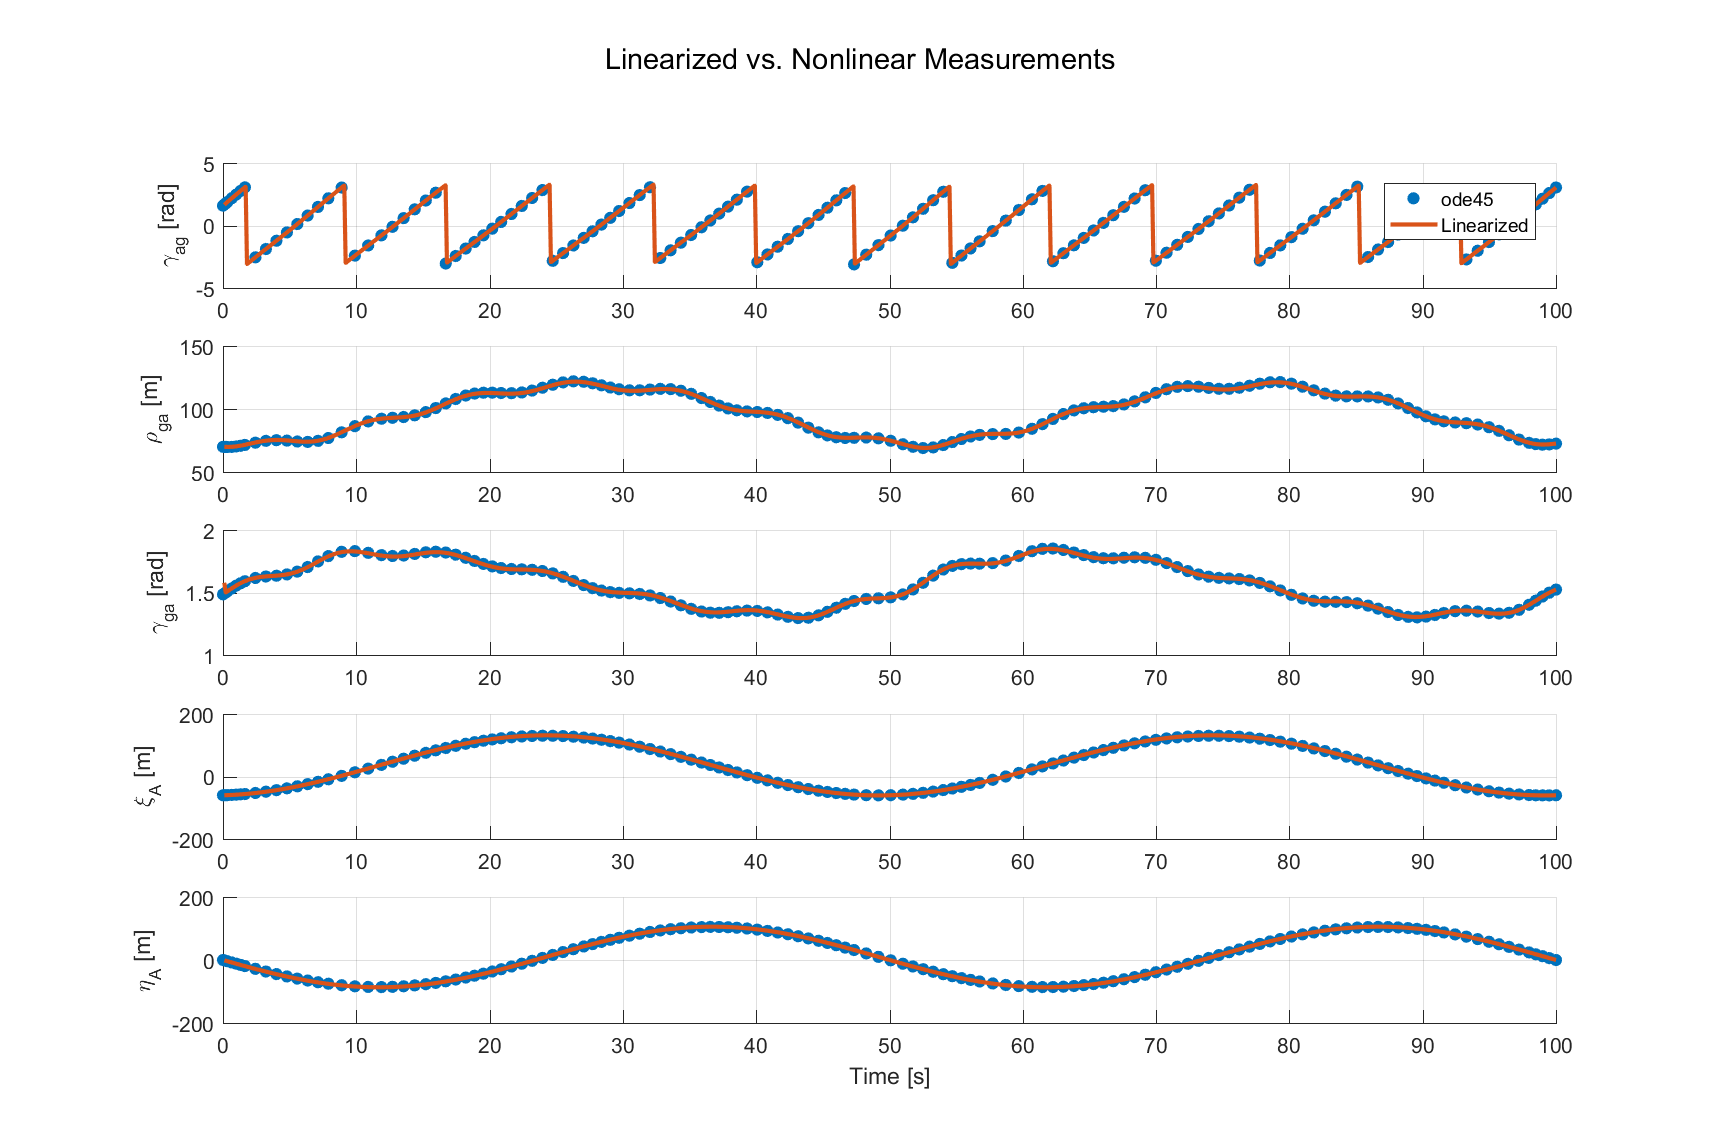
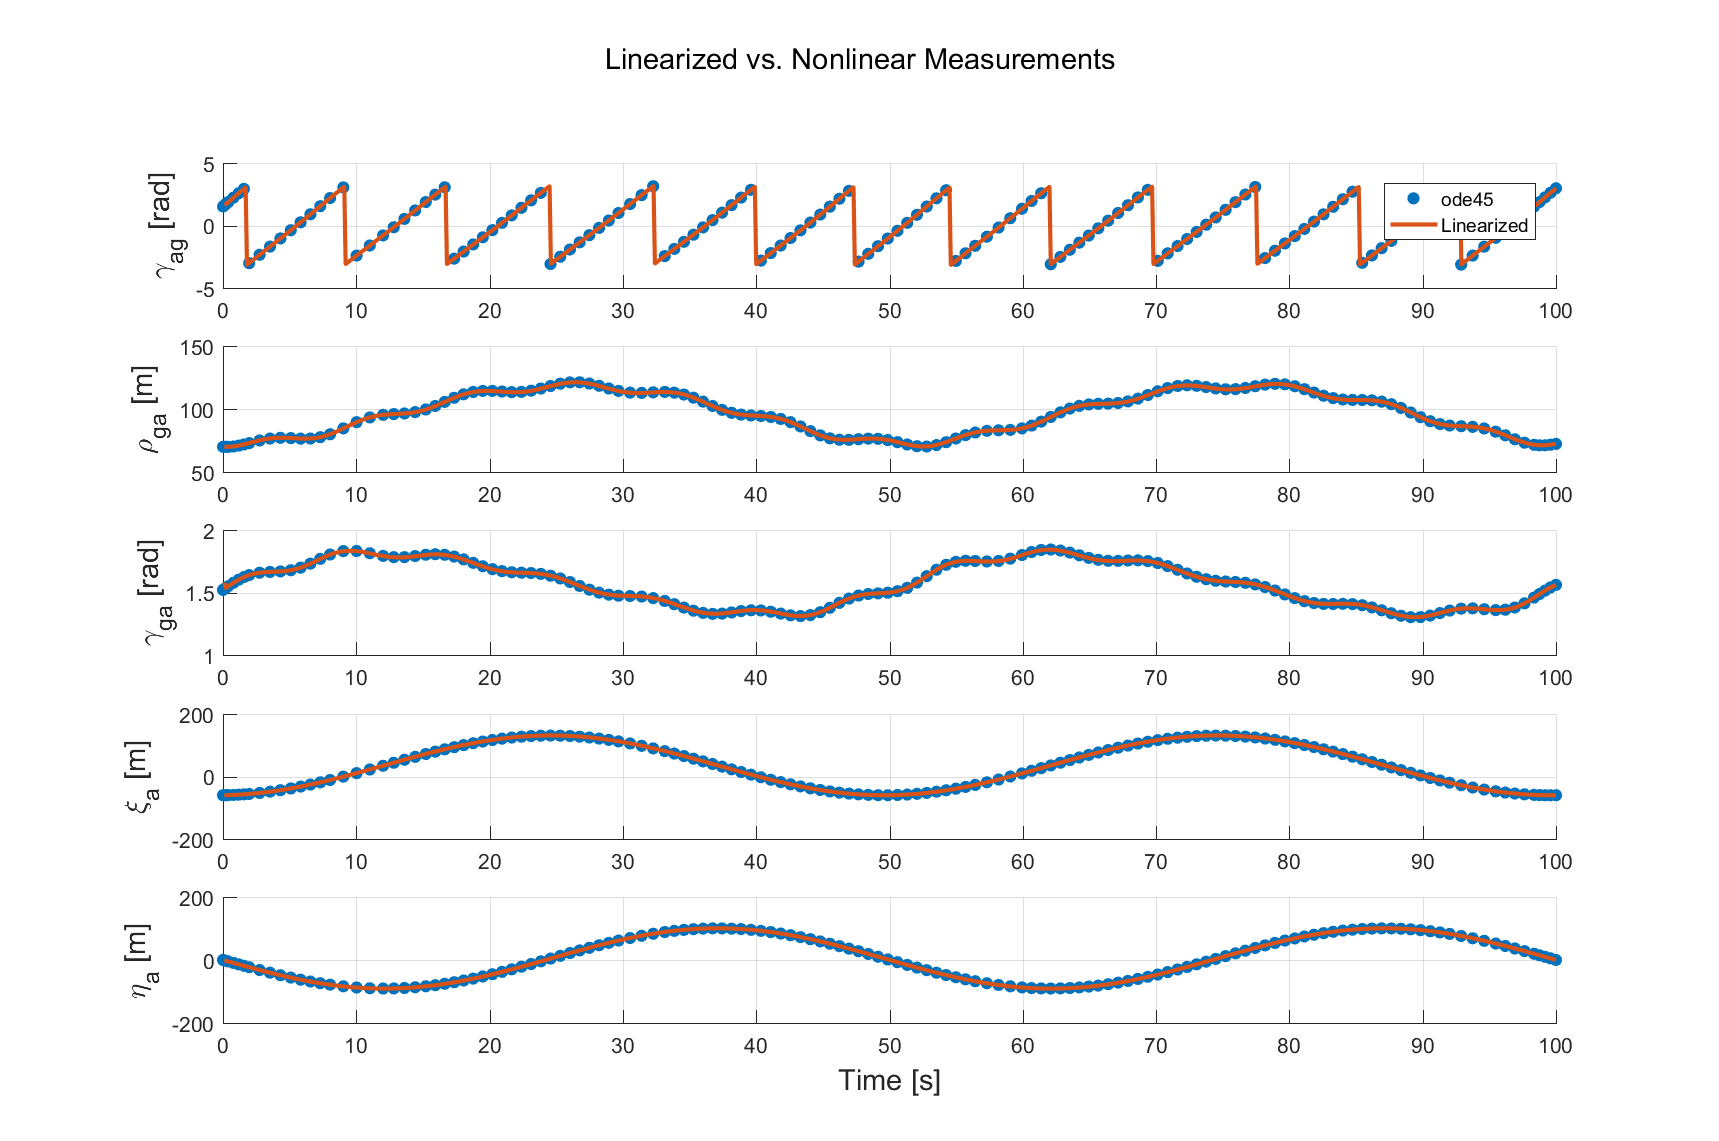
Slickified Plotting

diff --git a/progress1.m b/progress1.m
@@ -1,6 +1,12 @@
+%%%%%%%%%%%%%%%%%%%%%%%%%%%%%%%%%%%%%%%%%%%%%%%%%%%%%%%%%%%%%%
+% ASEN 5044: Statistical Estimation of Dynamic Systems
+% Final Project
 % Jamison McGinley, Jarrod Puseman
-% 4/14/20
-%%%%%%%%%%%%%%%%%%%%%%%%%%%%%%%%%%%%%%%%%%%%%%%%%%%%%%%%
+% Dr. Matsuo
+% 5/1/2020
+% Created:  4/10/2020
+% Modified: 4/14/2020
+%%%%%%%%%%%%%%%%%%%%%%%%%%%%%%%%%%%%%%%%%%%%%%%%%%%%%%%%%%%%%%
 
 %% Setup
 clear; close all; clc;
@@ -22,7 +28,7 @@ xi_a_nom =@(t) (1/pi)*(300 - 60*pi - 300*cos(pi/25*t));
 eta_a_nom =@(t) -(300/pi)*sin(pi/25*t);
 theta_a_nom =@(t) wrapToPi(-pi/2 + pi/25*t);
 nom_cond =@(t) [xi_g_nom(t); eta_g_nom(t); theta_g_nom(t); xi_a_nom(t); eta_a_nom(t); theta_a_nom(t)];
-perturbation = [0.15,0.15,0.05,0.15,0.15,0.05]; 
+perturbation = [0.15;0.15;0.05;0.15;0.15;0.05]; 
 %perturbation = [0;1;0; 0;0;0.1]; %Used to compare to TA solution
 inishcondish = [10;0;pi/2;-60;0;-pi/2];
 perturbed_state = inishcondish + perturbation;
@@ -80,112 +86,18 @@ y = meas(xNom(:,2:end))+dy;
 
 %% Plot and compare the two formulations
 % UGV States
-figure()
-subplot(3,1,1)
-hold on;
-grid on;
-plot(t_ode,x_ode(:,1),'.','Markersize',20);
-plot(time,x(1,:),'linewidth',2);
-%xlabel('Time [s]','Fontsize',14);
-ylabel('\xi_g [m]','Fontsize',14);
-legend('ode45', 'Linearized')
+ugvstates = {'\xi_g [m]','\eta_g [m]','\theta_g [rad]'};
+uavstates = {'\xi_a [m]','\eta_a [m]','\theta_a [rad]'};
+measurement_labels = {'\gamma_{ag} [rad]','\rho_{ga} [m]','\gamma_{ga} [rad]','\xi_a [m]','\eta_a [m]'};
 
-subplot(3,1,2)
-hold on;
-grid on;
-plot(t_ode,x_ode(:,2),'.','Markersize',20);
-plot(time,x(2,:),'linewidth',2);
-%xlabel('Time [s]');
-ylabel('\eta_g [m]','Fontsize',14);
-
-subplot(3,1,3)
-hold on;
-grid on;
-plot(t_ode,x_ode(:,3),'.','Markersize',20);
-plot(time,x(3,:),'linewidth',2);
-xlabel('Time [s]','Fontsize',14);
-ylabel('\theta_g [rad]','Fontsize',14);
-
-suptitle('Linearized vs. Nonlinear UGV States')
-set(gcf, 'Position', [100, 100, 1100, 730])
+plotcompare(t_ode,x_ode(:,1:3)',time,x(1:3,:),ugvstates,'Linearized vs. Nonlinear UGV States');
 print('UGV','-dpng')
 
-% UAV States
-figure()
-subplot(3,1,1)
-hold on;
-grid on;
-plot(t_ode,x_ode(:,4),'.','Markersize',20);
-plot(time,x(4,:),'linewidth',2);
-%xlabel('Time [s]');
-ylabel('\xi_A [m]','Fontsize',14);
-legend('ode45', 'Linearized')
-
-subplot(3,1,2)
-hold on;
-grid on;
-plot(t_ode,x_ode(:,5),'.','Markersize',20);
-plot(time,x(5,:),'linewidth',2);
-%xlabel('Time [s]');
-ylabel('\eta_A [m]','Fontsize',14);
-
-
-subplot(3,1,3)
-hold on;
-grid on;
-plot(t_ode,x_ode(:,6),'.','Markersize',20);
-plot(time,x(6,:),'linewidth',2);
-xlabel('Time [s]','Fontsize',14);
-ylabel('\theta_A [rad]','Fontsize',14);
-
-suptitle('Linearized vs. Nonlinear UAV States')
-set(gcf, 'Position', [100, 100, 1100, 730])
+plotcompare(t_ode,x_ode(:,4:6)',time,x(4:6,:),uavstates,'Linearized vs. Nonlinear UAV States');
 print('UAV','-dpng')
 
-
-%Measurements
-figure()
-subplot(5,1,1)
-hold on;
-grid on;
-plot(t_ode(2:end),measurements(1,:),'.','Markersize',20);
-plot(time(2:end),y(1,:),'linewidth',2);
-%xlabel('Time [s]');
-ylabel('\gamma_{ag} [rad]');
-legend('ode45', 'Linearized')
-
-subplot(5,1,2)
-hold on;
-grid on;
-plot(t_ode(2:end),measurements(2,:),'.','Markersize',20);
-plot(time(2:end),y(2,:),'linewidth',2);
-%xlabel('Time [s]');
-ylabel('\rho_{ga} [m]');
-
-subplot(5,1,3)
-hold on;
-grid on;
-plot(t_ode(2:end),measurements(3,:),'.','Markersize',20);
-plot(time(2:end),y(3,:),'linewidth',2);
-%xlabel('Time [s]');
-ylabel('\gamma_{ga} [rad]');
-
-subplot(5,1,4)
-hold on;
-grid on;
-plot(t_ode(2:end),measurements(4,:),'.','Markersize',20);
-plot(time(2:end),y(4,:),'linewidth',2);
-%xlabel('Time [s]');
-ylabel('\xi_A [m]');
-
-subplot(5,1,5)
-hold on;
-grid on;
-plot(t_ode(2:end),measurements(5,:),'.','Markersize',20);
-plot(time(2:end),y(5,:),'linewidth',2);
-xlabel('Time [s]');
-ylabel('\eta_A [m]');
-
-suptitle('Linearized vs. Nonlinear Measurements')
-set(gcf, 'Position', [100, 100, 1100, 730])
+plotcompare(t_ode(2:end),measurements,time(2:end),y,measurement_labels,'Linearized vs. Nonlinear Measurements');
 print('measurements','-dpng')
+
+%% Implement Filters and Test Them
+

diff --git a/plotcompare.m b/plotcompare.m
@@ -1,0 +1,34 @@
+function fig = plotcompare(tnl,xnl,tl,xl,labels,title)
+% Plot Compare creates a figure to compare the propagations of some states
+% between a nonlinear solver and linearized solution.
+% Format of call: plotcompare(tnl,xnl,tl,xl,lables,title)
+% Returns fig a figure handle
+
+%%%%%%%%%%%%%%%%%%%%%%%%%%%%%%%%%%%%%%%%%%%%%%%%%%%%%%%%%%%%%%
+% ASEN 5044: Statistical Estimation of Dynamic Systems
+% Final Project
+% Jamison McGinley, Jarrod Puseman
+% Dr. Matsuo
+% 5/1/2020
+% Created:  4/10/2020
+% Modified: 4/14/2020
+%%%%%%%%%%%%%%%%%%%%%%%%%%%%%%%%%%%%%%%%%%%%%%%%%%%%%%%%%%%%%%
+
+iter = length(labels);
+fig = figure;
+for i = 1:iter
+    subplot(iter,1,i)
+    hold on;
+    grid on;
+    plot(tnl,xnl(i,:),'.','Markersize',20);
+    plot(tl,xl(i,:),'linewidth',2);
+    ylabel(labels{i},'Fontsize',14);
+    if i==1
+        legend('ode45', 'Linearized')
+    end
+end
+xlabel('Time [s]','Fontsize',14);
+suptitle(title)
+set(gcf, 'Position', [100, 100, 1100, 730])
+
+end

diff --git a/odefun2.m b/odefun2.m
@@ -1,6 +1,12 @@
+%%%%%%%%%%%%%%%%%%%%%%%%%%%%%%%%%%%%%%%%%%%%%%%%%%%%%%%%%%%%%%
+% ASEN 5044: Statistical Estimation of Dynamic Systems
+% Final Project
 % Jamison McGinley, Jarrod Puseman
-% 4/10/20
-%%%%%%%%%%%%%%%%%%%%%%%%%%%%%%%%%%%%%%%%%%%%%%%%%%%%%%%%
+% Dr. Matsuo
+% 5/1/2020
+% Created:  4/10/2020
+% Modified: 4/12/2020
+%%%%%%%%%%%%%%%%%%%%%%%%%%%%%%%%%%%%%%%%%%%%%%%%%%%%%%%%%%%%%%
 function ddt = odefun2(~,IC)
 %xi_g = IC(1);
 %eta_g = IC(2);
@@ -16,7 +22,6 @@ va = 12; %m/s
 wa = pi/25; %rad/s
 
 %Changes in states
-
 dxi_g = vg*cos(theta_g);
 deta_g = vg*sin(theta_g);
 dtheta_g = (vg/L)*tan(phi_g);
